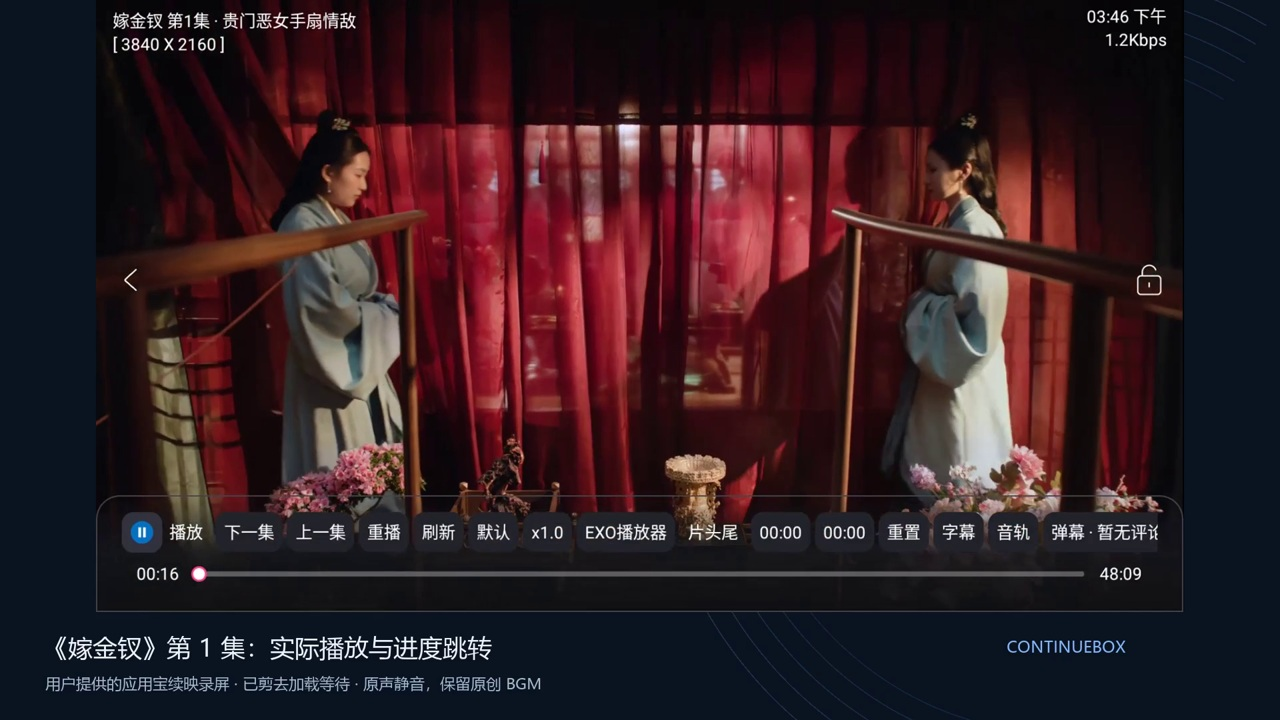
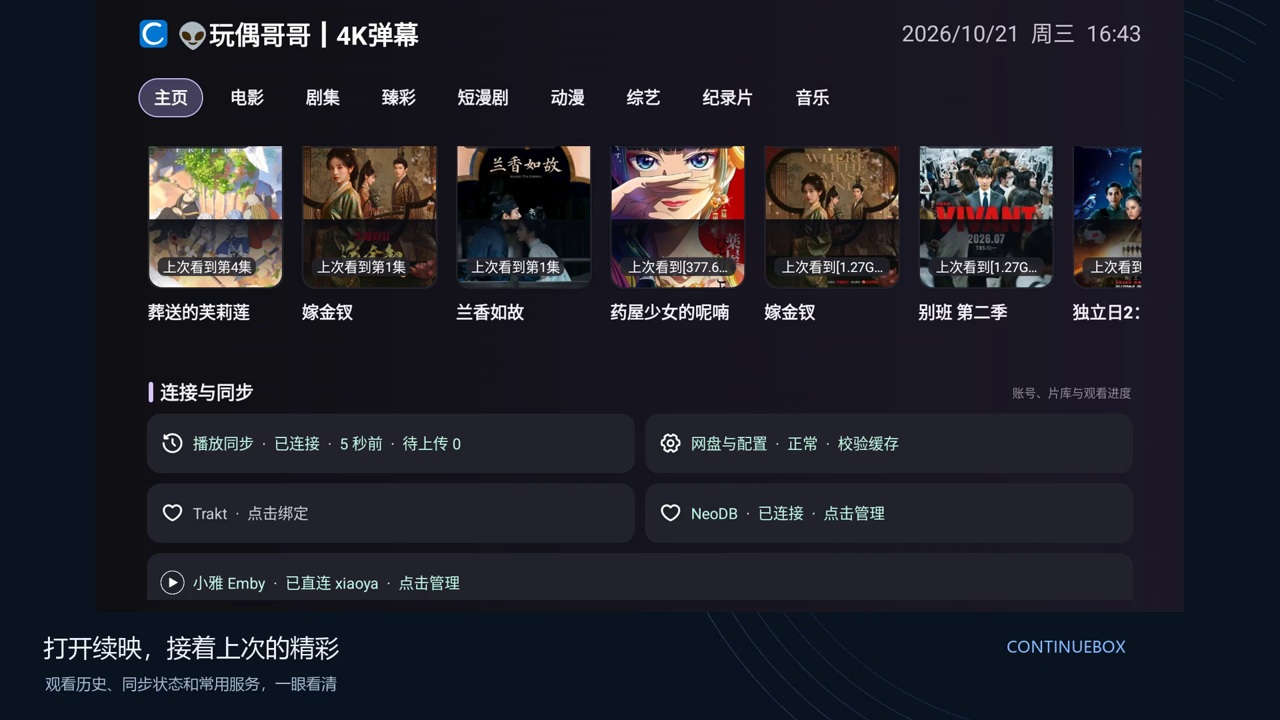
Use real home screenshot and recorded danmaku sending

diff --git a/docs/PROMO.md b/docs/PROMO.md
@@ -1,52 +1,43 @@
-# 2.2.5 真实网络播放与相关推荐实录
+# 2.2.5 真实主页、播放与弹幕展示
 
-[观看 / 下载 1080p MP4](https://github.com/infinitytom/continuebox/releases/download/v2.2.5/ContinueBox-2.2.5-promo.mp4) · [新增功能与 TVBoxOS 场景对比](FEATURES.md)
+[观看 / 下载 1080p MP4](https://github.com/infinitytom/continuebox/releases/download/v2.2.5/ContinueBox-2.2.5-promo.mp4) · [功能介绍](FEATURES.md)
 
-本次重剪为 **142 秒**，1920×1080、30 fps、H.264 + 48 kHz 双声道 AAC。只有中文字幕与原创纯音乐 BGM，没有旁白、机器配音或影片对白。
+新版 **94 秒**，1920×1080、30 fps、H.264 + 48 kHz 双声道 AAC。采用简短宣传字幕，只有原创 BGM，没有配音或影片原声。
 
 | 时间 | 内容 |
 |---|---|
-| 00:00–00:03 | 片头：真实网络播放、相关推荐与多设备接续 |
-| 00:03–00:19 | 从一段预告，发现下一部好片 |
-| 00:19–00:33 | 热剧随心看，快进更顺手 |
-| 00:33–00:53 | 看完这一部，发现下一部 |
-| 00:53–00:59 | 填入订阅地址，打开更多内容 |
-| 00:59–01:03 | 多个片源，自由选择 |
-| 01:03–01:08 | 电影、剧集，按喜好慢慢挑 |
-| 01:08–01:15 | 相比 TVBoxOS 基线增加的接续、账号和弹幕能力 |
-| 01:15–01:22 | 连上自己的服务，留住观看记录 |
-| 01:22–01:29 | 这台暂停，下台接着看 |
-| 01:29–01:33 | 换台设备，还是熟悉的账号 |
-| 01:33–01:39 | 看过的，不用再找一遍 |
-| 01:39–01:49 | 换个屏幕，故事继续 |
-| 01:49–01:57 | 哪些设备在登录，一眼看清 |
-| 01:57–02:05 | 收弹幕，也能发弹幕 |
-| 02:05–02:11 | 弹幕一起看，精彩不冷场 |
-| 02:11–02:17 | 把片库和观影记录，也连起来 |
-| 02:17–02:22 | 仓库、公开版下载与资源导航 |
+| 00:00–00:03 | 片头：接续你的每一次观看 |
+| 00:03–00:09 | 打开续映，接着上次的精彩 |
+| 00:09–00:23 | 热剧随心看，快进更顺手 |
+| 00:23–00:43 | 看完这一部，发现下一部 |
+| 00:43–00:49 | 填入订阅地址，打开更多内容 |
+| 00:49–00:53 | 多个片源，自由选择 |
+| 00:53–00:58 | 电影、剧集，按喜好慢慢挑 |
+| 00:58–01:05 | 功能介绍：接续、账号、弹幕与媒体库联动 |
+| 01:05–01:23 | 喜欢这一幕，就发条弹幕 |
+| 01:23–01:29 | 自己的片库，熟悉的观影记录 |
+| 01:29–01:34 | 仓库、下载与饭太硬导航 |
 
-## 真实网络播放与推荐
+## 画面来源
 
-除用户提供的录屏和弹幕截图外，其余产品画面来自 Android `screenrecord`，使用 Release 中完整、未修改的 `ContinueBox-2.2.5.apk`。饭太硬订阅的“荐影｜预告片”返回《白衣逆行者》，系统播放器实际加载远端网络视频，录屏显示播放进度和暂停控制。这是网络预告片，不是正片。其他站点的分类与资源同样来自订阅实际返回。
+主页使用用户提供的真实 1920×1080 截图，完整保留观看历史、同步状态和 Emby / NeoDB / Trakt 等入口，以静态画面展示。没有绘制替代主页或更改连接状态。
 
-新增的《嫁金钗》片段来自用户在应用宝中录制的续映操作视频，截取原始视频 00:54–01:08，展示第 1 集实际出画面、播放控制和进度跳转。已去掉加载等待与原声音轨，未改变播放器中的时间和界面。该应用宝安装版本未独立核验，不据此声称它与 Release APK 字节一致；该段不是模拟器正片试播成功的证明。
+《嫁金钗》第 1 集片段来自用户在应用宝内录制的续映视频，截取原始视频 00:54–01:08，展示正片播放、播放器控制与进度跳转。
 
-相关推荐段在用户自部署的同步服务完成登录，服务已配置 TMDB Read Access Token。客户端打开《幸福终点站》详情，实际返回 20 条相关推荐与演职员资料；录屏浏览推荐卡片，并点击《喜剧之王》发起全局搜索，展示多个片源的实际搜索结果。没有注入预制推荐数据。推荐按片名搜索，结果可能包含同名作品，需核对年份。私人服务地址、账号密码与令牌未进入公开画面或仓库。
+《葬送的芙莉莲》弹幕段来自用户新增的实际录屏，截取原始视频 00:12–00:30。保留发送弹幕对话框、发送操作、客户端“已发送到续映服务器弹幕库”的提示，以及随播放变化的弹幕。没有用静态图模拟滚动弹幕，也没有额外生成弹幕覆盖层。录屏显示发送成功提示，尚未另行验证另一客户端接收到这条新发送的弹幕。
 
-订阅地址为 `http://www.饭太硬.cc/tv`。[饭太硬资源导航](https://www.xn--sss604efuw.cc/) · [配置教程](SUBSCRIPTIONS.md)。APK 不预装订阅。
+相关推荐段使用已配置 TMDB 的自部署同步服务，在《幸福终点站》详情页实际加载推荐卡片；点击《喜剧之王》后展示全局搜索结果。订阅配置、站点与分类来自饭太硬订阅实际返回。上述自行录制的片段使用完整未修改的 Release APK；用户提供的应用宝和安卓录屏安装版本未独立核验。
 
-## 跨设备与扩展功能的实录范围
+此剪辑已移除先前的原创测试片《山海之间》、虚构演示片库、演示账号登录/设备管理画面，以及静态弹幕截图。接续和账号功能在介绍页说明，当前视频没有重演跨设备接续流程；主页连接状态不代表重新完成了第三方授权和同步测试。
 
-跨设备部分使用两套独立 Android 11 Google APIs 环境与独立安装，通过系统 ARM 转译运行 arm64-v8a APK。两套环境登录本地演示同步服务的同一演示账号，第二套没有预置历史，通过服务恢复记录。此部分使用明确标注的原创测试片《山海之间》，不冒充订阅影片。环境 A 暂停后实际读取的服务端位置为 84129 ms；环境 B 恢复第 1 集并继续播放，录屏显示至 02:01。剪辑省略等待与设置，没有改写应用内时间和同步状态。
+## 订阅与使用条件
 
-弹幕段展示实际来源配置，并说明接收多来源弹幕、登录自部署同步服务后通过播放器“发弹幕”入口发送。02:05–02:11 插入用户提供的 512×230 弹幕效果截图，保留原图内容并等比放大，字幕标注为“弹幕效果截图”；没有生成滚动弹幕或改写截图文字。此次录屏没有记录成功发送和其他客户端接收，不将功能说明冒充收发验证，也没有制作虚假弹幕覆盖层。Emby、Trakt 和 NeoDB 只介绍联动入口，未配置第三方账号，不展示为授权或同步成功。多账号、跨源匹配等能力见 [FEATURES.md](FEATURES.md)，未将每项能力都当作本次已完成的端到端验证。
+点播订阅地址：`http://www.饭太硬.cc/tv`。[饭太硬资源导航](https://www.xn--sss604efuw.cc/) · [配置教程](SUBSCRIPTIONS.md)。导航和兼容的订阅地址同样可用于普通 TVBox，并非续映专属资源。APK 不预装订阅，具体线路取决于片源、插件和网络环境。
 
-## 已知限制
+弹幕发送需登录自己的续映同步服务；接收需启用相应弹幕来源。相关推荐需要服务端配置 TMDB Read Access Token。Emby、NeoDB、Trakt 需要配置对应服务和账号。
 
-荐影网络预告片已播放成功；其他已试线路曾在模拟器 ARM 转译层触发原生兼容错误，不能据此声称全部订阅线路可用。用户提供的应用宝录屏已展示《嫁金钗》正片播放；ARM 真机和其他具体线路仍需单独验证。
+## 检查与已有问题
 
-跨设备部分录制结束连续返回时出现一次“获取播放信息错误”，并观察到服务端位置归零，仍需排查。本次媒体与文档更新未修改 APK，历史恢复与接续片段不能视为全场景稳定性保证。
+用户录屏原声音轨已移除，成片只有原创合成器纯音乐，无歌词、无人声或第三方采样，末尾淡出。已通过完整解码、分辨率、时长及单音轨检查，摘要见 [video-validation.json](validation/video-validation.json)。
 
-## 音乐与成片检查
-
-BGM 为本次原创合成器编排，无歌词、无人声、无第三方采样。原先安卓录屏不带音轨；新增用户录屏的原声音轨已移除，成片唯一音轨来自该音乐，响度目标 -18 LUFS，末尾淡出。成片通过完整解码、分辨率、时长和音轨检查，结果见 [video-validation.json](validation/video-validation.json)。
+本次仅更新视频与文档，没有修改 APK。此前 Android Studio 模拟器测试的部分片源曾触发 ARM 转译兼容错误；更早的跨设备测试在连续返回后曾出现播放信息错误和进度归零，仍需排查。用户真实录屏展示了对应环境中的实际播放与弹幕操作，不代表所有线路和设备均已验证。

diff --git a/README.md b/README.md
@@ -18,7 +18,7 @@
 - 服务端更新至 0.27.1，包含邮箱验证、设备会话撤销、持久化额度、请求限流与聚合弹幕。
 - 发布对应的原生组件源码、208 个差异文件、完整 Apktool 工程、文件摘要和重建脚本。
 
-新版 **142 秒宣传视频**新增用户提供的应用宝续映录屏：播放《嫁金钗》第 1 集并跳转进度。另展示饭太硬订阅的真实网络预告片、TMDB 相关推荐及点击搜索、两套安卓环境的历史恢复与接续播放、设备管理，并说明弹幕接收与发送入口，插入用户提供的弹幕效果截图（静态展示）。跨设备段使用明确标注的原创测试片。中文字幕与原创 BGM，无配音，用户录屏的原声已移除。APK 不预装订阅。
+新版 **94 秒宣传视频**采用真实主页截图、《嫁金钗》播放与快进录屏，以及《葬送的芙莉莲》的滚动弹幕和发送操作录屏，保留相关推荐与订阅配置展示。已移除原创测试片、虚构片库、演示账号和旧静态弹幕图。仅保留原创 BGM，无配音或影片原声。APK 不预装订阅。
 
 [![宣传视频预览](assets/promo-preview.jpg)](https://github.com/infinitytom/continuebox/releases/download/v2.2.5/ContinueBox-2.2.5-promo.mp4)
 
